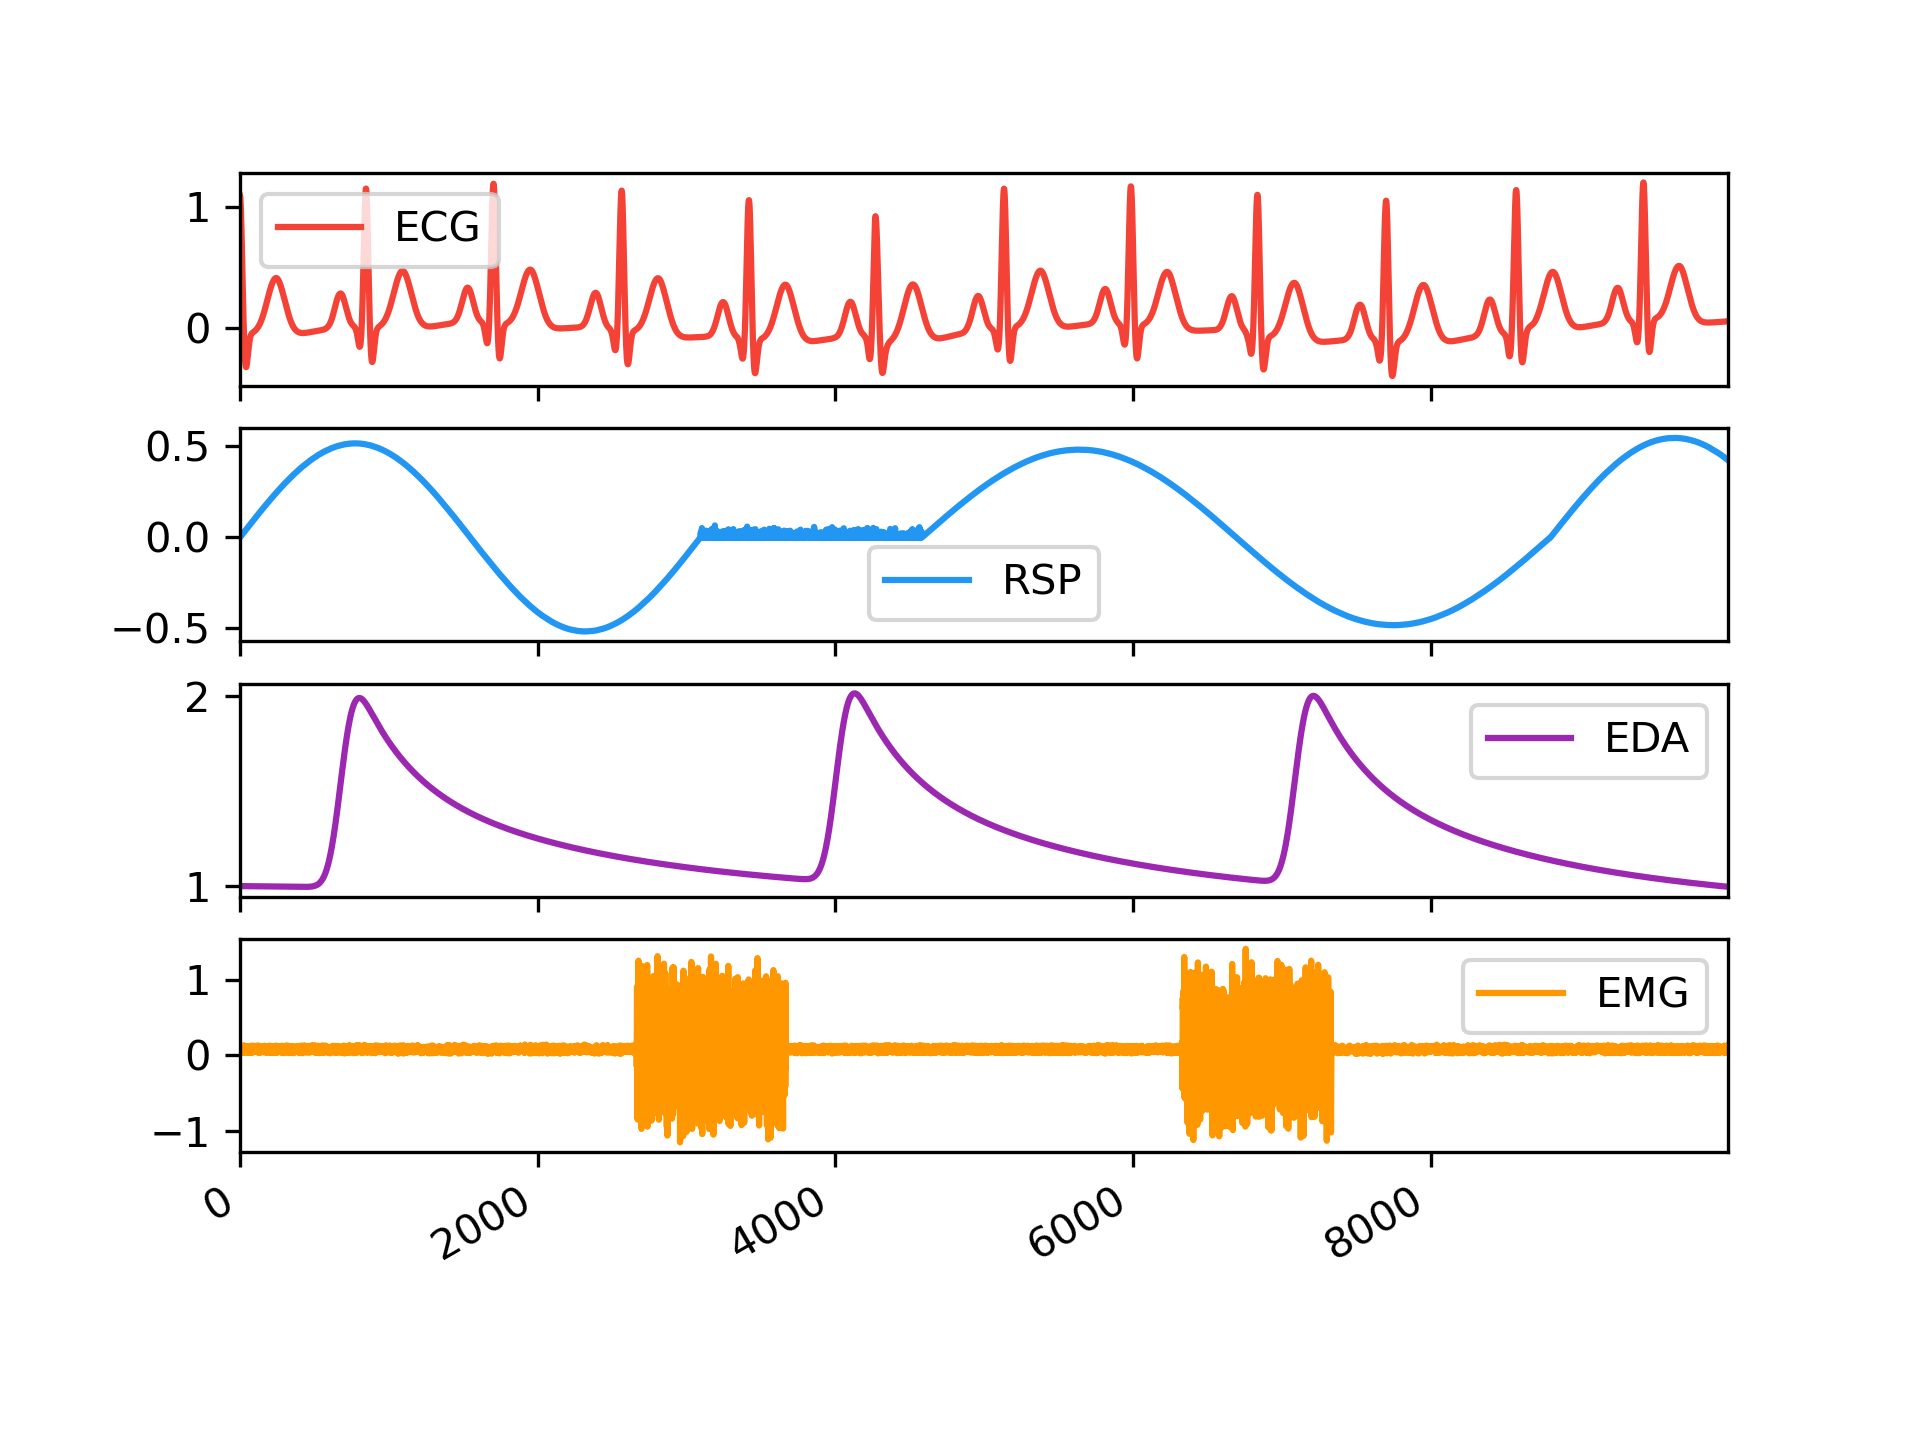
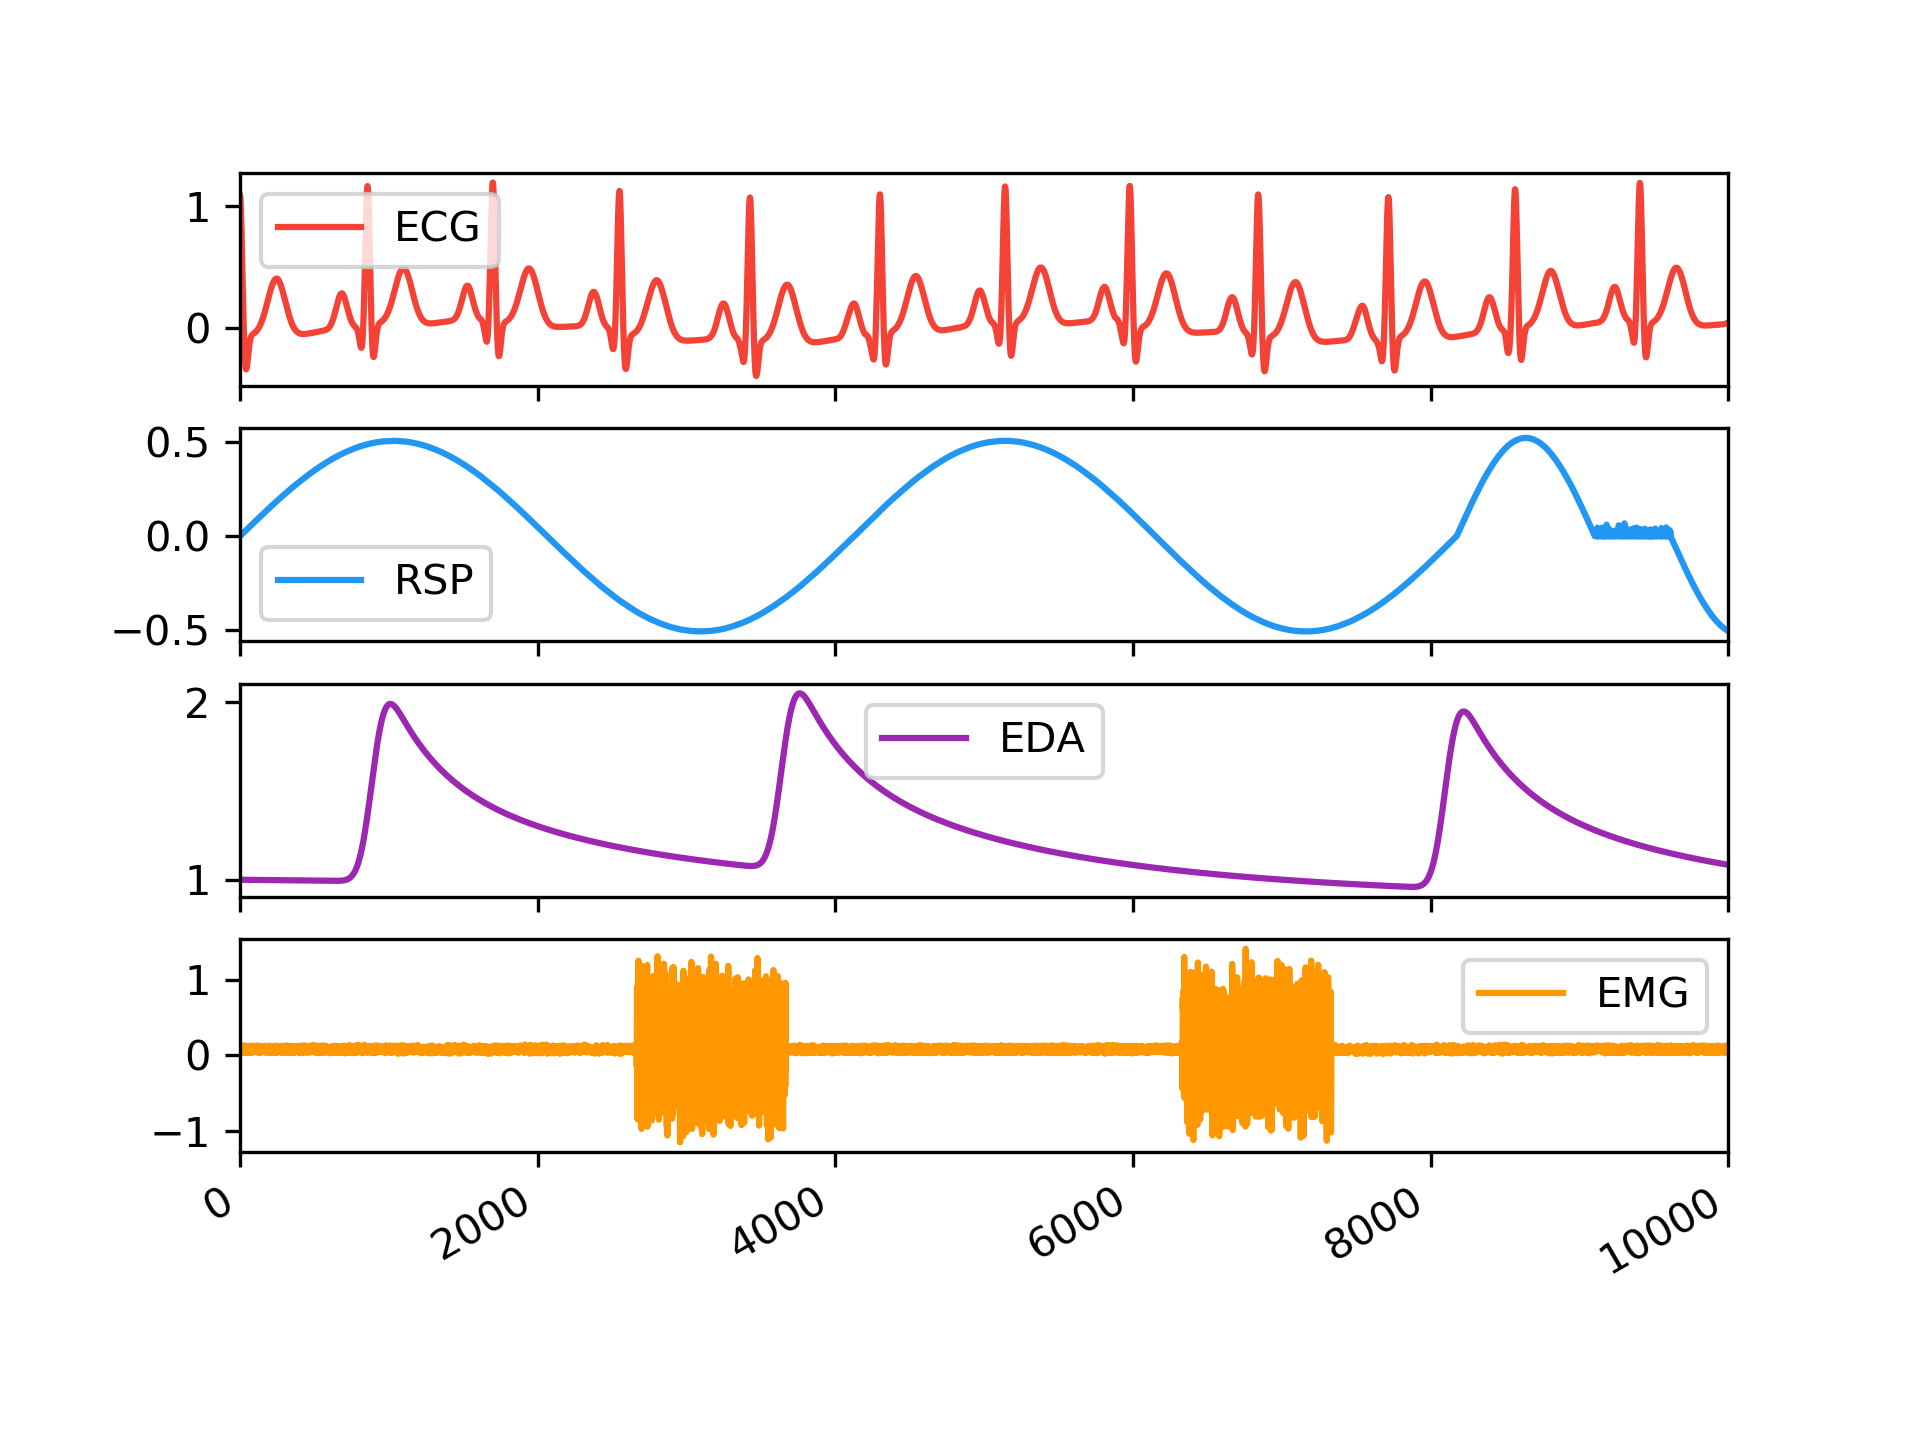
readme update

diff --git a/docs/img/README_examples.py b/docs/img/README_examples.py
@@ -27,9 +27,7 @@ data = pd.DataFrame({"ECG": nk.ecg_simulate(duration=10, heart_rate=70, noise=0)
                      "EDA": nk.eda_simulate(duration=10, n_scr=3, noise=0),
                      "EMG": nk.emg_simulate(duration=10, n_bursts=2, noise=0)})
 plot = data.plot(subplots=True, layout=(4, 1), color=['#f44336', "#2196F3", "#9C27B0", "#FF9800"])
-plot[0][0].get_figure().savefig("README_simulation.png", dpi=300)
-
-
+plot[0][0].get_figure().savefig("README_simulation.png", dpi=300, h_pad=3)
 
 # =============================================================================
 # Electrodermal Activity (EDA) processing
@@ -42,12 +40,12 @@ eda = nk.eda_simulate(duration=30, sampling_rate=250, n_scr=5, drift=0.1)
 signals, info = nk.eda_process(eda, sampling_rate=250)
 
 # Visualise the processing
-nk.eda_plot(signals, sampling_rate=250)
+nk.eda_plot(signals, sampling_rate=None)
 
 # Save it
-plot = nk.eda_plot(signals, sampling_rate=250)
-plot.savefig("README_eda.png", dpi=300)
-
+plot = nk.eda_plot(signals, sampling_rate=None)
+plot.set_size_inches(10, 6, forward=True)
+plot.savefig("README_eda.png", dpi=300, h_pad=3)
 
 # =============================================================================
 # Cardiac activity (ECG) processing
@@ -64,14 +62,14 @@ nk.ecg_plot(signals, sampling_rate=250)
 
 # Save it
 plot = nk.ecg_plot(signals, sampling_rate=250)
-plot.savefig("README_ecg.png", dpi=300)
-
+plot.set_size_inches(10, 6, forward=True)
+plot.savefig("README_ecg.png", dpi=300, h_pad=3)
 
 # =============================================================================
 # Respiration (RSP) processing
 # =============================================================================
 
-# Generate one minute of respiratory (RSP) signal (recorded at 250 samples / second)
+# Generate one minute of RSP signal (recorded at 250 samples / second)
 rsp = nk.rsp_simulate(duration=60, sampling_rate=250, respiratory_rate=15)
 
 # Process it
@@ -82,4 +80,23 @@ nk.rsp_plot(signals, sampling_rate=250)
 
 # Save it
 plot = nk.rsp_plot(signals, sampling_rate=250)
-plot.savefig("README_respiration.png", dpi=300)
+plot.set_size_inches(10, 6, forward=True)
+plot.savefig("README_rsp.png", dpi=300, h_pad=3)
+
+# =============================================================================
+# Electromyography (EMG) processing
+# =============================================================================
+
+# Generate 10 seconds of EMG signal (recorded at 250 samples / second)
+emg = nk.emg_simulate(duration=10, sampling_rate=250)
+
+# Process it
+signals = nk.emg_process(emg, sampling_rate=250)
+
+# Visualise the processing
+nk.emg_plot(signals, sampling_rate=250)
+
+# Save it
+plot = nk.emg_plot(signals, sampling_rate=250)
+plot.set_size_inches(10, 6, forward=True)
+plot.savefig("README_emg.png", dpi=300, h_pad=3)

diff --git a/README.rst b/README.rst
@@ -140,7 +140,26 @@ Respiration (RSP) processing
     nk.rsp_plot(signals, sampling_rate=250)
 
 
-.. image:: https://raw.github.com/neuropsychology/NeuroKit/master/docs/img/README_respiration.png
+.. image:: https://raw.github.com/neuropsychology/NeuroKit/master/docs/img/README_rsp.png
+
+
+Electromyography (EMG) processing
+----------------------------
+
+.. code-block:: python
+
+    # Generate 10 seconds of EMG signal (recorded at 250 samples / second)
+	emg = nk.emg_simulate(duration=10, sampling_rate=250)
+
+    # Process it
+    signals = nk.emg_process(emg, sampling_rate=250)
+
+    # Visualise the processing
+    nk.emg_plot(signals, sampling_rate=250)
+
+
+.. image:: https://raw.github.com/neuropsychology/NeuroKit/master/docs/img/README_emg.png
+
 
 Signal processing
 -----------------
